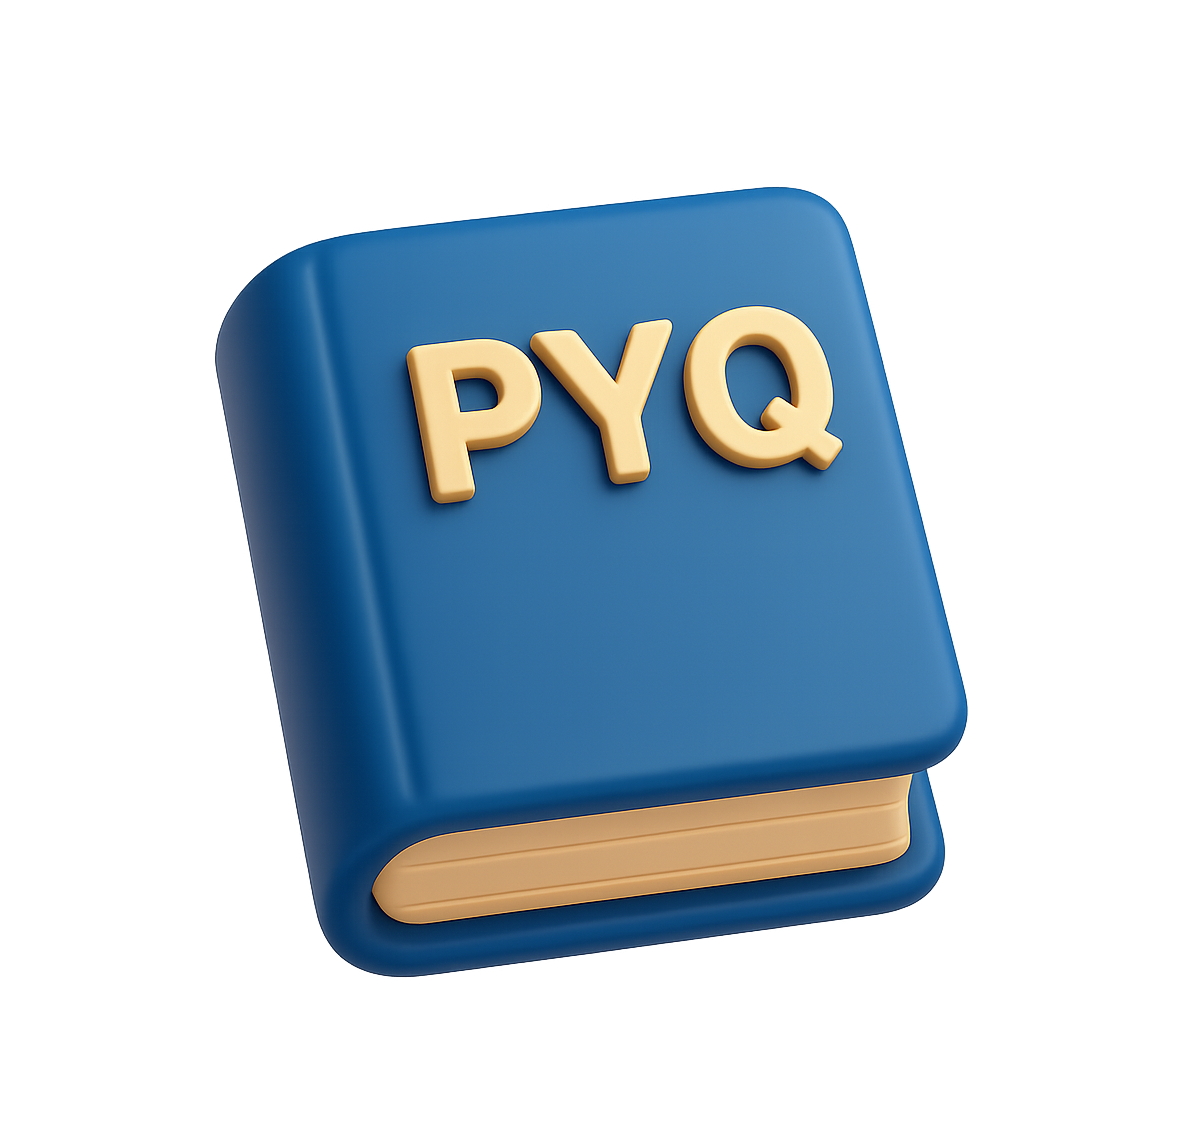
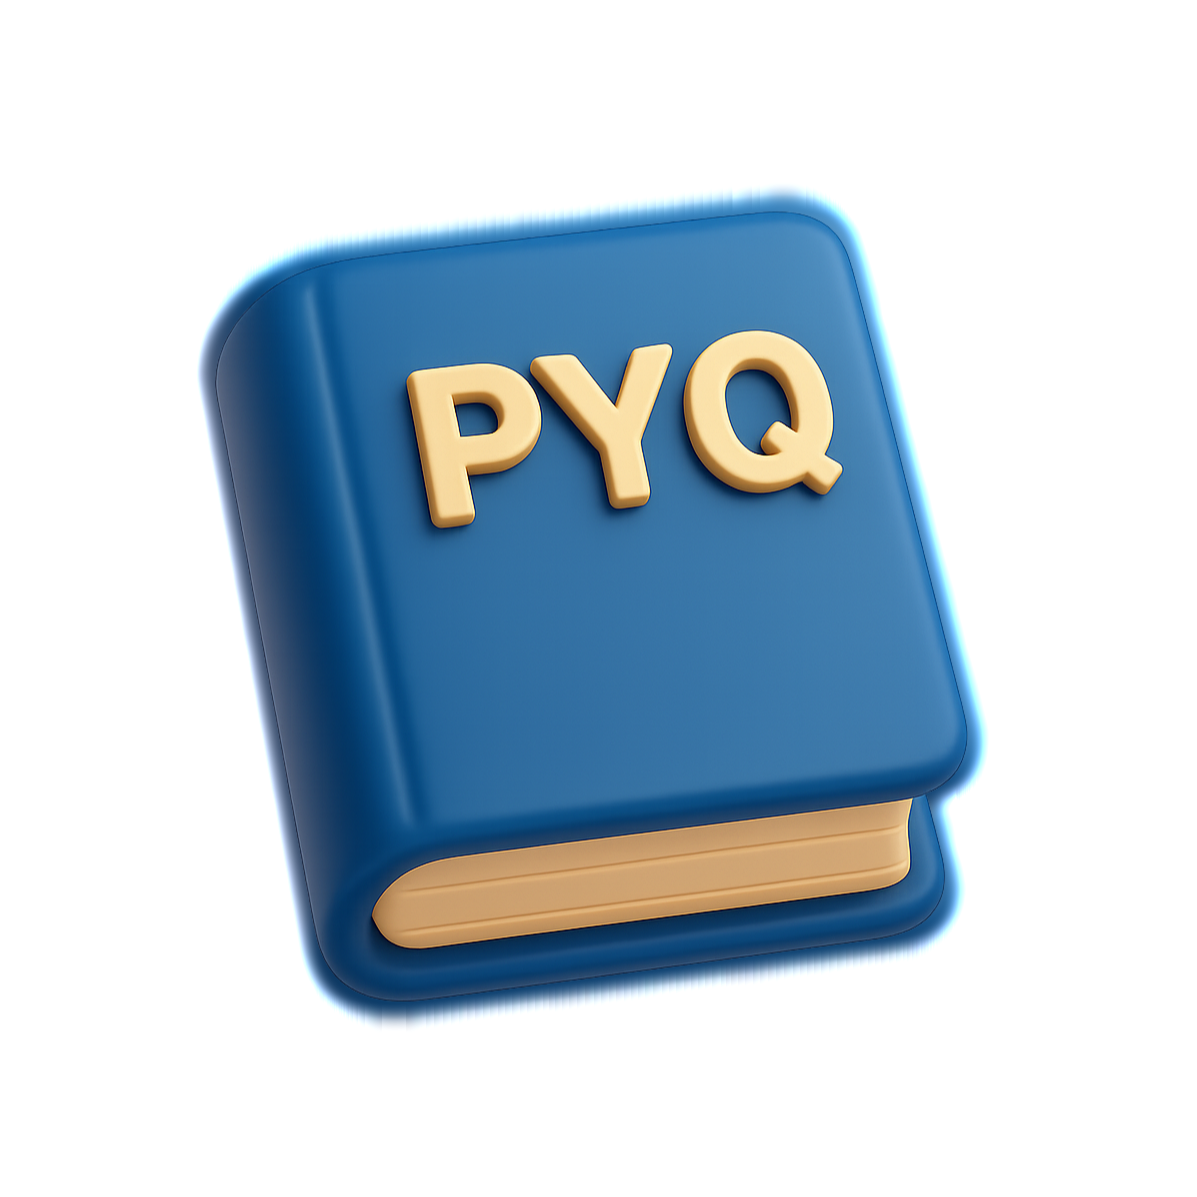
feat(DeveloperInfoScreen): update developer info screen and assets
- Updated the developer info screen to remove the redundant `appVersion` assignment.
- Updated the app icon.

Changed region(s): [[0.1546, 0.1524, 0.8346, 0.8537]]

diff --git a/src/screens/DeveloperInfoScreen.js b/src/screens/DeveloperInfoScreen.js
@@ -14,9 +14,9 @@ import {
 import { appVersion, COLORS } from '../constants';
 import Icon from '../components/Icon';
 import ListItemCard from '../components/ListItemCard';
-import { appVersion } from '../constants';
+
 const DeveloperInfoScreen = () => {
-    const appVersion = appVersion;
+    
 
     const handleEmailPress = () => {
         Linking.openURL('mailto:raiyanhasan2006@gmail.com');
